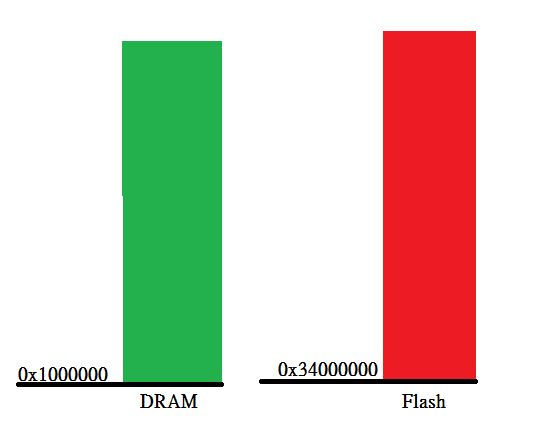
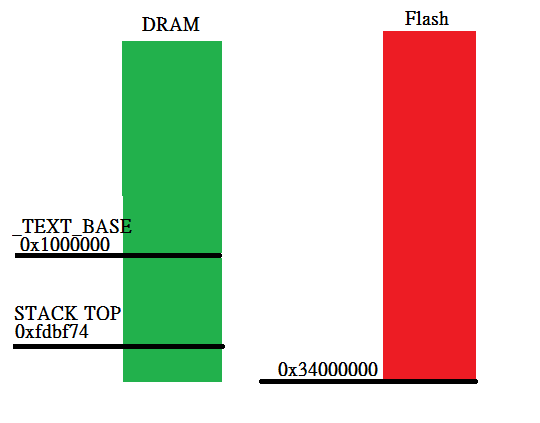
commit

diff --git a/nboot/README.md b/nboot/README.md
@@ -5,4 +5,5 @@
 * Stop at some loop point (b . ) and check register value .
 ![Screenshot](imgs/export_lds_variable_in_asm.png)   
 * Use global variables defined value in lds script
-
+![Screenshot](imgs/stack_start.png)   
+* Prepare stack size 
